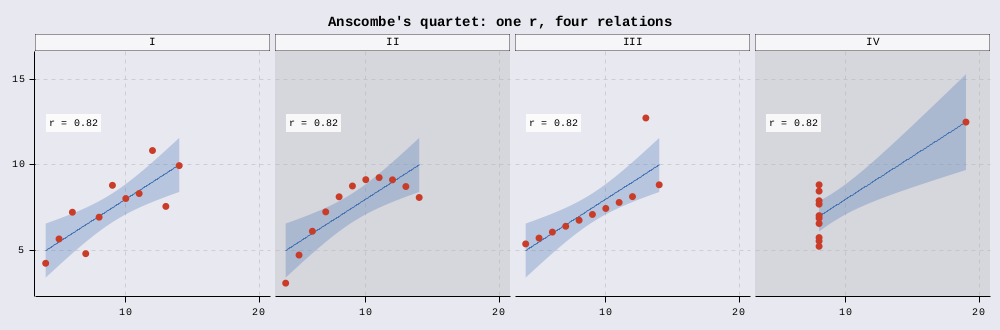
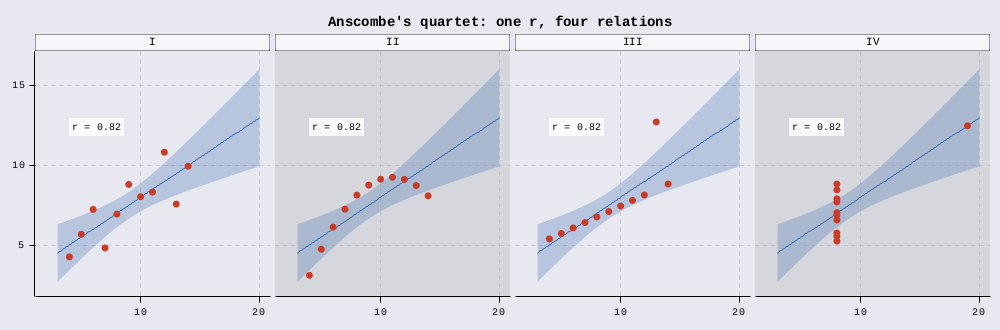
correlation - notebook - review2

diff --git a/docs/use_cases.correlation.html b/docs/use_cases.correlation.html
@@ -973,7 +973,7 @@ pre > code.sourceCode > span > a:first-child::before { text-decoration: underlin
 <h2 data-number="6.9" class="anchored" data-anchor-id="caveats"><span class="header-section-number">6.9</span> Caveats</h2>
 <section id="anscombes-quartet" class="level3" data-number="6.9.1">
 <h3 data-number="6.9.1" class="anchored" data-anchor-id="anscombes-quartet"><span class="header-section-number">6.9.1</span> Anscombe’s quartet</h3>
-<p>Four datasets with the same means, variances, linear fit and r ≈ 0.82 - and four different relations: a line, a curve, a line with an outlier, a single far point making the correlation. Always look at the scatter plot.</p>
+<p>Four datasets with the same means, variances, linear fit and r ≈ 0.82 - and four different relations: a line, a curve, a line with an outlier, a single far point making the correlation. Always look at the scatter plot. The same mean and spread of x and the same residual variance give the same line and confidence band; drawn over the whole x domain (<code>:full-range</code> with an explicit <code>:domain</code>, shared by the panels) they coincide.</p>
 <p>Source: <a href="https://en.wikipedia.org/wiki/Anscombe%27s_quartet">Anscombe (1973), Graphs in Statistical Analysis (R datasets::anscombe)</a>.</p>
 <div class="sourceClojure">
 <div class="code-copy-outer-scaffold"><div class="sourceCode" id="cb48"><pre class="sourceCode clojure code-with-copy"><code class="sourceCode clojure"><span id="cb48-1"><a href="#cb48-1" aria-hidden="true" tabindex="-1"></a>(<span class="bu">def</span><span class="fu"> anscombe</span></span>
@@ -992,13 +992,14 @@ pre > code.sourceCode > span > a:first-child::before { text-decoration: underlin
 <span id="cb49-2"><a href="#cb49-2" aria-hidden="true" tabindex="-1"></a>  (plot/render-image</span>
 <span id="cb49-3"><a href="#cb49-3" aria-hidden="true" tabindex="-1"></a>   {<span class="at">:data</span> anscombe <span class="at">:mapping</span> {<span class="at">:x</span> <span class="at">:x</span> <span class="at">:y</span> <span class="at">:y</span> <span class="at">:facet</span> <span class="at">:set</span>}</span>
 <span id="cb49-4"><a href="#cb49-4" aria-hidden="true" tabindex="-1"></a>    <span class="at">:facets</span> {<span class="at">:columns</span> <span class="dv">4</span>}</span>
-<span id="cb49-5"><a href="#cb49-5" aria-hidden="true" tabindex="-1"></a>    <span class="at">:charts</span> [(chart/smooth {<span class="at">:method</span> <span class="at">:lm</span>})</span>
-<span id="cb49-6"><a href="#cb49-6" aria-hidden="true" tabindex="-1"></a>             (chart/scatter {<span class="at">:size</span> <span class="dv">7</span> <span class="at">:color</span> [<span class="dv">200</span> <span class="dv">60</span> <span class="dv">40</span>]})</span>
-<span id="cb49-7"><a href="#cb49-7" aria-hidden="true" tabindex="-1"></a>             (chart/text {<span class="at">:data</span> (<span class="kw">vec</span> (<span class="kw">for</span> [[<span class="kw">set</span> rows] (<span class="kw">group-by</span> <span class="at">:set</span> anscombe)] {<span class="at">:set</span> <span class="kw">set</span> <span class="at">:x</span> <span class="dv">4</span> <span class="at">:y</span> <span class="dv">13</span> <span class="at">:label</span> (r-label rows)}))</span>
-<span id="cb49-8"><a href="#cb49-8" aria-hidden="true" tabindex="-1"></a>                          <span class="at">:mapping</span> {<span class="at">:x</span> <span class="at">:x</span> <span class="at">:y</span> <span class="at">:y</span> <span class="at">:label</span> <span class="at">:label</span>} <span class="at">:anchor</span> [<span class="at">:left</span> <span class="at">:top</span>]</span>
-<span id="cb49-9"><a href="#cb49-9" aria-hidden="true" tabindex="-1"></a>                          <span class="at">:background</span> [<span class="dv">255</span> <span class="dv">255</span> <span class="dv">255</span> <span class="dv">210</span>] <span class="at">:padding</span> <span class="dv">3</span>})]</span>
-<span id="cb49-10"><a href="#cb49-10" aria-hidden="true" tabindex="-1"></a>    <span class="at">:labels</span> {<span class="at">:title</span> <span class="st">"Anscombe's quartet: one r, four relations"</span>}}</span>
-<span id="cb49-11"><a href="#cb49-11" aria-hidden="true" tabindex="-1"></a>   {<span class="at">:width</span> <span class="dv">1000</span> <span class="at">:height</span> <span class="dv">330</span>}))</span></code></pre></div><button title="Copy to Clipboard" class="code-copy-button"><i class="bi"></i></button></div>
+<span id="cb49-5"><a href="#cb49-5" aria-hidden="true" tabindex="-1"></a>    <span class="at">:scales</span> {<span class="at">:x</span> {<span class="at">:domain</span> [<span class="dv">3</span> <span class="dv">20</span>]}}</span>
+<span id="cb49-6"><a href="#cb49-6" aria-hidden="true" tabindex="-1"></a>    <span class="at">:charts</span> [(chart/smooth {<span class="at">:method</span> <span class="at">:lm</span> <span class="at">:full-range</span> <span class="va">true</span>})</span>
+<span id="cb49-7"><a href="#cb49-7" aria-hidden="true" tabindex="-1"></a>             (chart/scatter {<span class="at">:size</span> <span class="dv">7</span> <span class="at">:color</span> [<span class="dv">200</span> <span class="dv">60</span> <span class="dv">40</span>]})</span>
+<span id="cb49-8"><a href="#cb49-8" aria-hidden="true" tabindex="-1"></a>             (chart/text {<span class="at">:data</span> (<span class="kw">vec</span> (<span class="kw">for</span> [[<span class="kw">set</span> rows] (<span class="kw">group-by</span> <span class="at">:set</span> anscombe)] {<span class="at">:set</span> <span class="kw">set</span> <span class="at">:x</span> <span class="dv">4</span> <span class="at">:y</span> <span class="dv">13</span> <span class="at">:label</span> (r-label rows)}))</span>
+<span id="cb49-9"><a href="#cb49-9" aria-hidden="true" tabindex="-1"></a>                          <span class="at">:mapping</span> {<span class="at">:x</span> <span class="at">:x</span> <span class="at">:y</span> <span class="at">:y</span> <span class="at">:label</span> <span class="at">:label</span>} <span class="at">:anchor</span> [<span class="at">:left</span> <span class="at">:top</span>]</span>
+<span id="cb49-10"><a href="#cb49-10" aria-hidden="true" tabindex="-1"></a>                          <span class="at">:background</span> [<span class="dv">255</span> <span class="dv">255</span> <span class="dv">255</span> <span class="dv">210</span>] <span class="at">:padding</span> <span class="dv">3</span>})]</span>
+<span id="cb49-11"><a href="#cb49-11" aria-hidden="true" tabindex="-1"></a>    <span class="at">:labels</span> {<span class="at">:title</span> <span class="st">"Anscombe's quartet: one r, four relations"</span>}}</span>
+<span id="cb49-12"><a href="#cb49-12" aria-hidden="true" tabindex="-1"></a>   {<span class="at">:width</span> <span class="dv">1000</span> <span class="at">:height</span> <span class="dv">330</span>}))</span></code></pre></div><button title="Copy to Clipboard" class="code-copy-button"><i class="bi"></i></button></div>
 </div>
 <div class="clay-image">
 <p><img src="use_cases.correlation_files/image29.png" class="img-fluid"></p>
